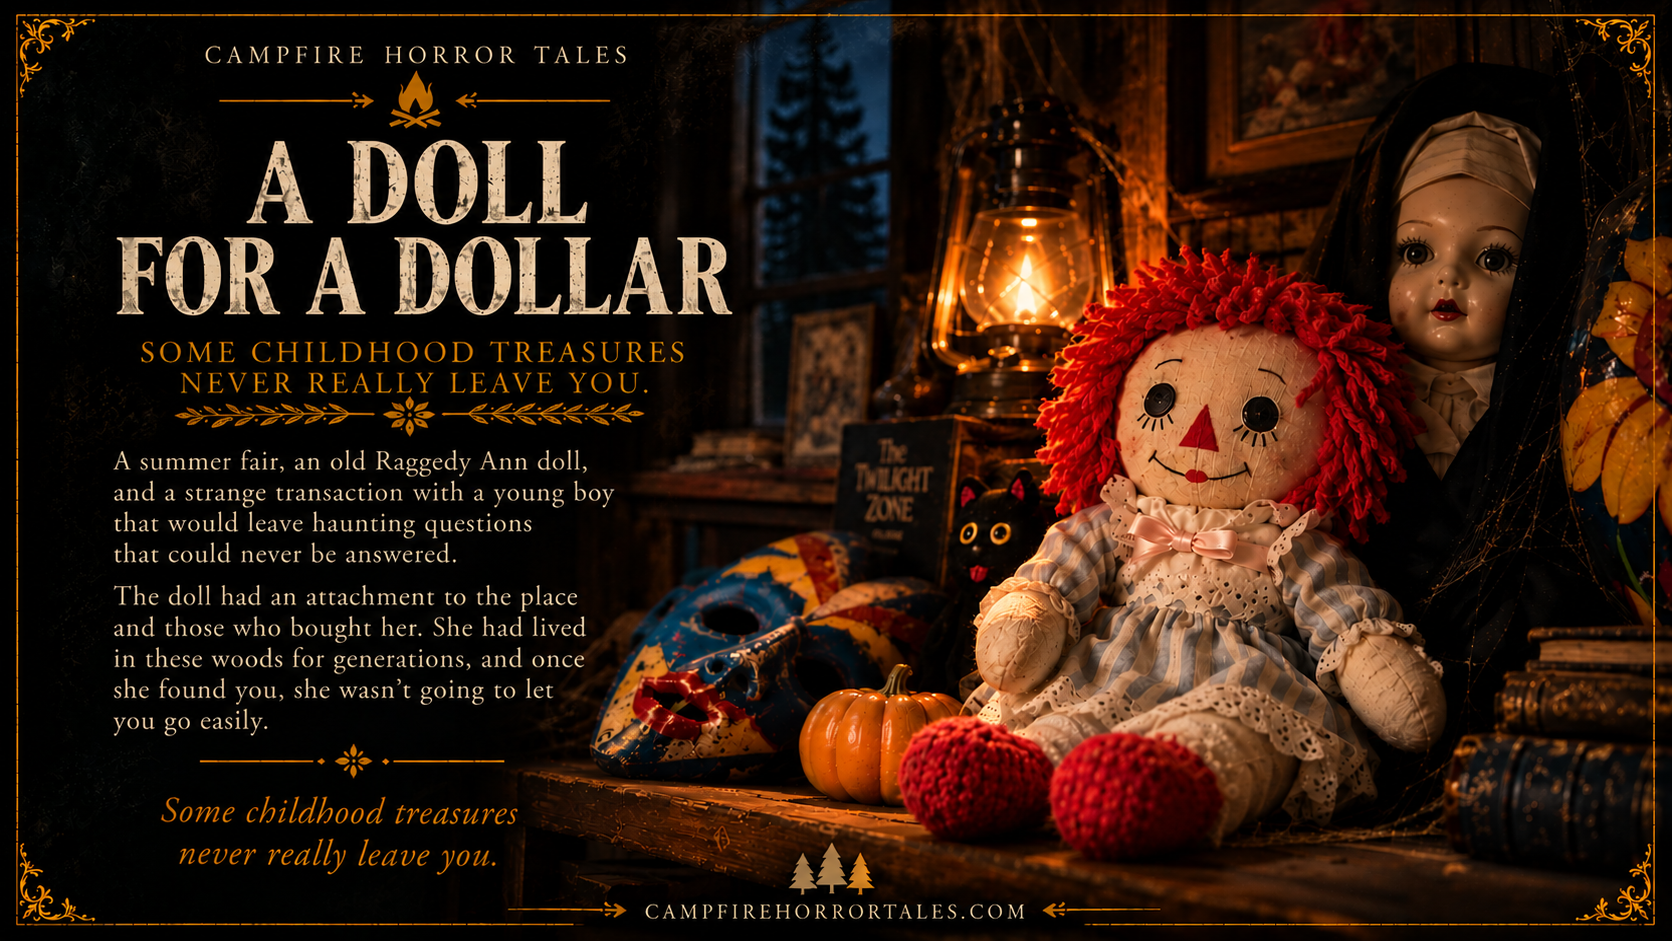
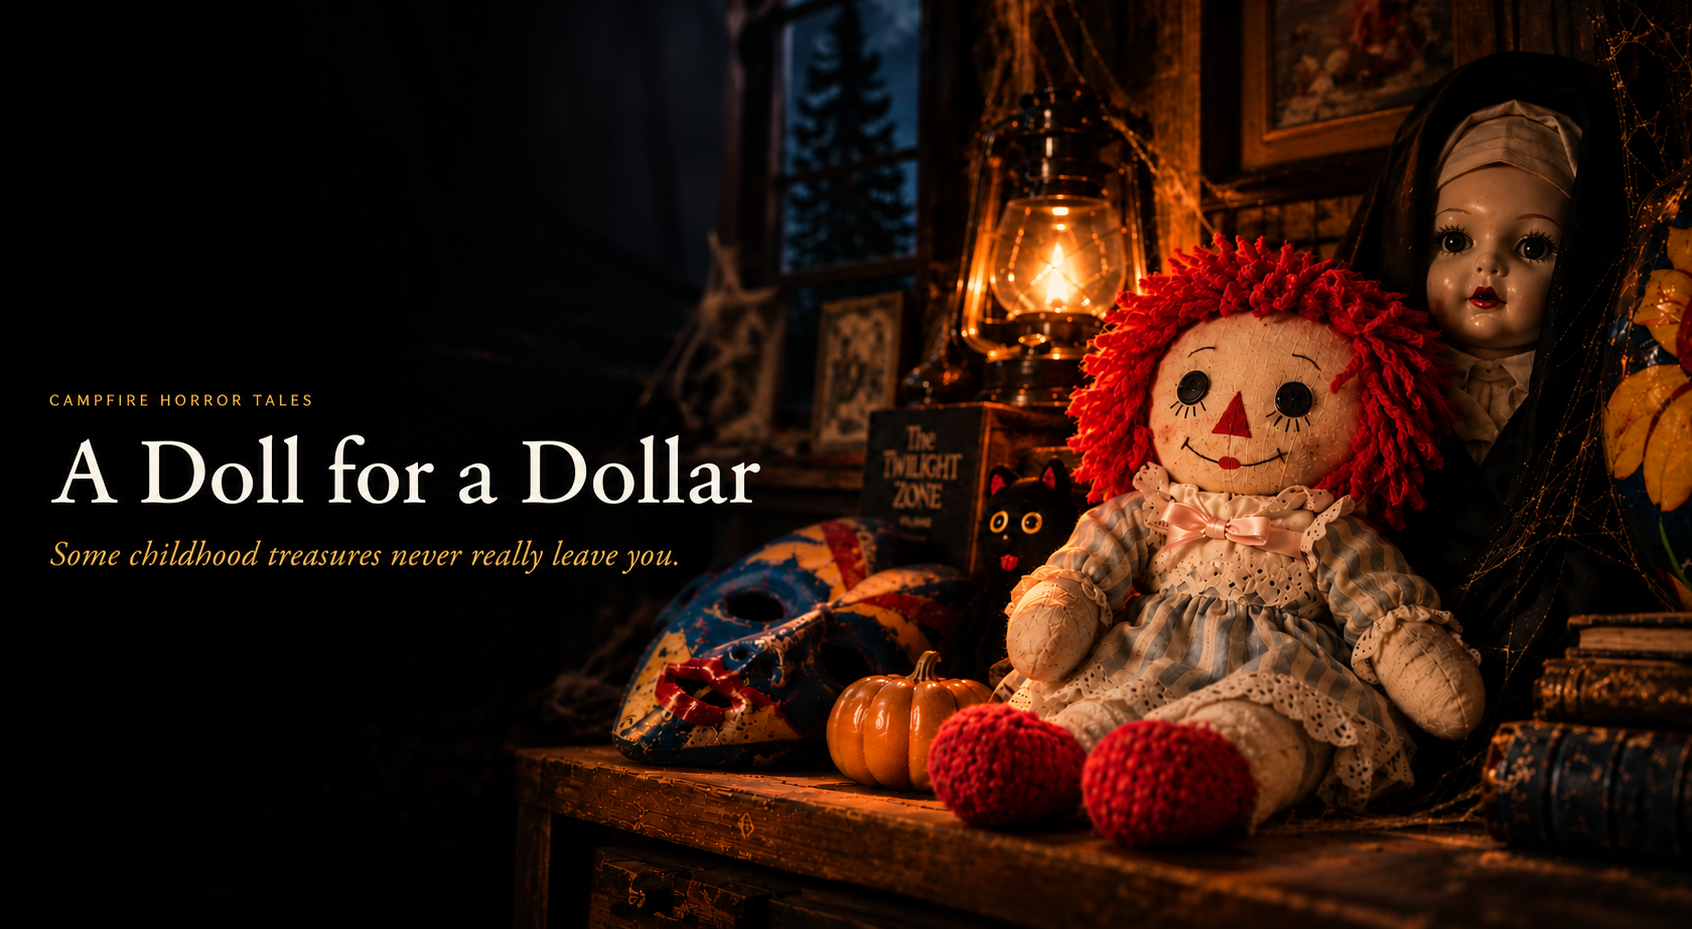
feat: Launch A Doll for a Dollar and update Behind the Fire reflections
- Change featured story on homepage from Old Woman in the Mirror to A Doll for a Dollar
- Update index.html with new story description and poster image
- Update Behind the Fire author reflections with Instagram content for all four stories:
  * A Doll for a Dollar: Story of the summer fair transaction
  * Fleshy Findlay: Mask inspiration from family cabin
  * The Boy in the Bog: Childhood bog exploration memories
  * The Old Woman in the Mirror: Family heirloom dresser story and grandmother's experiences
- Add French translation progress notice on fr/index.html

diff --git a/index.html b/index.html
@@ -408,30 +408,24 @@
         </audio>
               </section>
 
-      <section class="content-section" aria-labelledby="old-woman-title">
+      <section class="content-section" aria-labelledby="doll-title">
         <div class="section-heading">
           <p class="eyebrow">Featured Story</p>
-          <h2 id="old-woman-title">The Old Woman in the Mirror</h2>
+          <h2 id="doll-title">A Doll for a Dollar</h2>
         </div>
         <p class="section-intro">
-          An enchanted family heirloom... or a wicked curse.
-
-          A life destined for hardship.
-
-          A choice to be free...
-
-          ...or to be trapped in a different kind of hell forever.
+          A summer fair, an old Raggedy Ann doll, and a strange transaction with a young boy leave haunting questions that can never be answered.
         </p>
         <article class="story-card story-card--compact">
           <div class="story-card__media">
-            <img class="story-card__poster" src="assets/images/Story Posters/The old woman in the Mirror Poster.png" alt="Featured story poster for The Old Woman in the Mirror" />
+            <img class="story-card__poster" src="assets/stories/a-doll-for-a-dollar/images/A Doll For A Dollar POSTER.png" alt="Featured story poster for A Doll for a Dollar" />
           </div>
           <div class="story-card__body">
-            <h2>The Old Woman in the Mirror</h2>
+            <h2>A Doll for a Dollar</h2>
             <p>
-              The newest story in the Campfire Horror Tales collection.             </p>
+              An original Campfire Horror Tale.             </p>
             <ul class="story-card__links">
-              <li><a class="button" href="the-old-woman-in-the-mirror.html">Read Story</a></li>
+              <li><a class="button" href="a-doll-for-a-dollar.html">Read Story</a></li>
             </ul>
           </div>
         </article>

diff --git a/a-doll-for-a-dollar.html b/a-doll-for-a-dollar.html
@@ -19,13 +19,7 @@
       </div>
     </header>
     <main id="main-content">
-      <section class="story-hero" aria-labelledby="story-title">
-        <div class="story-hero__content">
-          <p class="eyebrow">Campfire Horror Tales</p>
-          <h1 id="story-title">A Doll for a Dollar</h1>
-          <p class="story-hero__tagline">Some childhood treasures never really leave you.</p>
-          <a class="story-hero__behind" href="behind-the-fire-a-doll-for-a-dollar.html">Behind the Fire</a>
-        </div>
+      <section class="story-hero story-hero--poster" aria-label="A Doll for a Dollar">
         <div class="story-hero__art" aria-hidden="true"><img src="assets/stories/a-doll-for-a-dollar/images/poster.png" alt="" /></div>
       </section>
       <section class="story-read story-read--full" aria-labelledby="story-title-read">
@@ -34,6 +28,7 @@
           <h1 id="story-title-read">A Doll for a Dollar</h1>
           <ul class="story-meta-list"><li><strong>Setting:</strong> Saint-Clair-des-Bois, Québec</li></ul>
           <article class="story-manuscript" id="story-manuscript" data-story-source="assets/stories/a-doll-for-a-dollar/manuscript.md"></article>
+          <section class="story-reflection" aria-labelledby="doll-reflection-title"><p class="eyebrow">Behind the Fire</p><h2 id="doll-reflection-title">The writer's reflection</h2><p>Discover the real memories, objects, and images that sparked this original work of fiction.</p><a class="button button--ghost" href="behind-the-fire-a-doll-for-a-dollar.html">Read the reflection</a></section>
           <div class="story-end"><a class="text-link" href="stories.html">← Back to Stories</a></div>
         </div>
       </section>

diff --git a/the-old-woman-in-the-mirror.html b/the-old-woman-in-the-mirror.html
@@ -49,7 +49,6 @@
           <div class="story-hero__actions" aria-label="Story actions">
             <!-- Intentionally left minimal for reading experience -->
           </div>
-          <a class="story-hero__behind" href="behind-the-fire-the-old-woman-in-the-mirror.html">Behind the Fire</a>
         </div>
         <div class="story-hero__art" aria-hidden="true">
           <img src="assets/images/The Girl in the Mirror.png" alt="Poster artwork for The Old Woman in the Mirror" />
@@ -67,6 +66,13 @@
           <!-- PDF/Print controls removed for public release (will be reintroduced in v3.0) -->
 
           <article class="story-manuscript" id="story-manuscript" data-story-source="assets/stories/the-old-woman-in-the-mirror/manuscript.md"></article>
+
+          <section class="story-reflection" aria-labelledby="mirror-reflection-title">
+            <p class="eyebrow">Behind the Fire</p>
+            <h2 id="mirror-reflection-title">The writer's reflection</h2>
+            <p>Discover the real memories, objects, and images that sparked this original work of fiction.</p>
+            <a class="button button--ghost" href="behind-the-fire-the-old-woman-in-the-mirror.html">Read the reflection</a>
+          </section>
 
           <div class="story-end">
             <a class="text-link" href="stories.html">← Back to Stories</a>

diff --git a/the-boy-in-the-bog.html b/the-boy-in-the-bog.html
@@ -46,7 +46,6 @@
           <div class="story-hero__actions" aria-label="Story actions">
             <!-- Minimal hero actions for reading experience -->
           </div>
-          <a class="story-hero__behind" href="behind-the-fire-the-boy-in-the-bog.html">Behind the Fire</a>
         </div>
         <div class="story-hero__art" aria-hidden="true">
           <img src="assets/images/The Bog.png" alt="Background artwork for The Boy in the Bog" style="object-position: center center;" />
@@ -63,6 +62,13 @@
           <!-- PDF/Print controls removed for public release (will be reintroduced in v3.0) -->
 
           <article class="story-manuscript" id="story-manuscript" data-story-source="assets/stories/the-boy-in-the-bog-draft-02.md"></article>
+
+          <section class="story-reflection" aria-labelledby="bog-reflection-title">
+            <p class="eyebrow">Behind the Fire</p>
+            <h2 id="bog-reflection-title">The writer's reflection</h2>
+            <p>Discover the real memories, objects, and images that sparked this original work of fiction.</p>
+            <a class="button button--ghost" href="behind-the-fire-the-boy-in-the-bog.html">Read the reflection</a>
+          </section>
 
           <div class="story-end">
             <a class="text-link" href="stories.html">← Back to Stories</a>

diff --git a/fleshy-findlay.html b/fleshy-findlay.html
@@ -31,7 +31,6 @@
           <div class="story-hero__actions" aria-label="Story actions">
             <!-- Minimal hero actions for reading experience -->
           </div>
-          <a class="story-hero__behind" href="behind-the-fire-fleshy-findlay.html">Behind the Fire</a>
         </div>
         <div class="story-hero__art" aria-hidden="true">
           <img src="assets/images/Findlays Face.png" alt="Background artwork for Fleshy Findlay" style="object-position: center center;" />
@@ -47,6 +46,13 @@
           <!-- PDF/Print controls removed for public release (will be reintroduced in v3.0) -->
 
           <article class="story-manuscript" id="story-manuscript" data-story-source="assets/stories/fleshy-findlay.md"></article>
+
+          <section class="story-reflection" aria-labelledby="fleshy-reflection-title">
+            <p class="eyebrow">Behind the Fire</p>
+            <h2 id="fleshy-reflection-title">The writer's reflection</h2>
+            <p>Discover the real memories, objects, and images that sparked this original work of fiction.</p>
+            <a class="button button--ghost" href="behind-the-fire-fleshy-findlay.html">Read the reflection</a>
+          </section>
 
           <div class="story-end">
             <a class="text-link" href="stories.html">← Back to Stories</a>

diff --git a/fr/index.html b/fr/index.html
@@ -30,6 +30,12 @@
           <a class="button" href="stories.html">Découvrir les récits</a>
         </div>
       </section>
+
+      <section class="content-section" style="text-align: center; padding: 4rem 2rem; background: rgba(8, 10, 12, 0.5);">
+        <p style="color: #d9d1c5; font-family: 'Cormorant Garamond', serif; font-size: 1.2rem; max-width: 600px; margin: 0 auto; line-height: 1.6;">
+          Nous travaillons fort pour traduire l'ensemble de nos histoires et contenus pour notre prochaine publication. Merci de votre patience!
+        </p>
+      </section>
     </main>
     <footer class="site-footer"><p>&copy; Dawn Hill. Récits originaux, folklore sombre et histoires au-delà du feu.</p></footer>
   </body>

diff --git a/stories.html b/stories.html
@@ -52,7 +52,7 @@
 
         <article class="story-card story-card--compact" aria-labelledby="doll-title">
           <div class="story-card__media">
-            <img class="story-card__poster" src="assets/stories/a-doll-for-a-dollar/images/poster.png" alt="Poster artwork for A Doll for a Dollar" />
+            <img class="story-card__poster" src="assets/stories/a-doll-for-a-dollar/images/A Doll For A Dollar POSTER.png" alt="Poster artwork for A Doll for a Dollar" />
           </div>
           <div class="story-card__body">
             <h2 id="doll-title">A Doll for a Dollar</h2>

diff --git a/styles/styles.css b/styles/styles.css
@@ -662,6 +662,24 @@ main {
 
 .story-end { margin-top: 2.25rem; }
 
+.story-reflection {
+  margin-top: 3rem;
+  padding: 1.75rem;
+  border: 1px solid rgba(242, 179, 93, 0.2);
+  border-radius: var(--radius);
+  background: rgba(255, 255, 255, 0.035);
+}
+.story-reflection h2 {
+  margin: 0 0 0.6rem;
+  font-family: 'Cormorant Garamond', serif;
+  font-size: 1.8rem;
+}
+.story-reflection p:not(.eyebrow) {
+  margin: 0;
+  color: #ddd7cf;
+}
+.story-reflection .button { margin-top: 1.25rem; }
+
 .inspiration-scrapbook {
   max-width: 540px;
   margin: 2.75rem 0 0;

diff --git a/assets/behind-the-fire/the-old-woman-in-the-mirror.md b/assets/behind-the-fire/the-old-woman-in-the-mirror.md
@@ -6,27 +6,21 @@ status: outline
 language: en
 ---
 
-## The Inspiration
+## An enchanted family heirloom... or a wicked curse.
 
-This entry is being prepared. Add the real-world inspiration for the story here.
+A life destined for hardship.
+A choice to be free...
+or perhaps to be trapped in a different kind of hell forever.
 
-## The Photograph
+## This is the actual dresser and mirror that once belonged to my great grandmother.
 
-Add details of any photograph, object, or visual reference that inspired the atmosphere. Include credit and permission information where needed.
+My father spent hours in the garage, stripping away layer after layer of old paint. He removed the old nails, and transforming it into the beautiful piece it is today.
 
-## The Family Story
+When I was little, my grandmother would tell me how she'd wake in the middle of the night to see faces—old faces—smiling at her from the mirror.
 
-Add only family history or memories Andrea wishes to share publicly. Do not imply that the fictional events in the story happened.
+## The story also draws from the harsh realities of early German customs in La Minerve
 
-## From Memory to Fiction
+Long winters, many babies, hard work, and a life left little room for anything but survival.
 
-Describe the creative choices that transformed inspiration into an original Campfire Horror Tale.
-
-## Why the Mirror?
-
-Add the reflection on why the mirror became the story's central object.
-
-## What Is Real and What Is Fiction?
-
-State clearly which inspirations are personal, historical, or visual, and that the characters, plot, and supernatural events are original fiction.
+Some reflections remain with you.
 

diff --git a/assets/behind-the-fire/a-doll-for-a-dollar.md b/assets/behind-the-fire/a-doll-for-a-dollar.md
@@ -6,14 +6,18 @@ status: pending-author-review
 language: en
 ---
 
-## The Real Spark
+## Every story has a spark. Here's the one that started this tale.
 
-This entry is reserved for an author-reviewed reflection on a Québec village fair, a little boy selling homemade tin-can telephones, and an old Raggedy Ann doll marked with a handwritten one-dollar price.
+At a summer fair in Québec, I came across a little boy selling homemade tin-can telephones, and an old Raggedy Ann doll with a handwritten sign. $1.
 
-## Materials for the Reflection
+I paid with a $5 bill. He counted out all of his change into my hand, and only later did I realize I had taken every last coin he had.
 
-The approved source notes include paying with a five-dollar bill, the boy counting out the change, returning to look for him and never finding him or the tin-can telephones again in later years. They also include a real Raggedy Ann photograph and a separately purchased old nun doll.
+I went back to find him, but he was gone. I never saw him again.
 
-## From Memory to Fiction
+The doll came home with me. Friends and family noticed right away that she had a strange, unsettling presence. But I couldn't get rid of it. It felt as though the boy had passed her to me, and she was mine to keep.
 
-These are real memories and objects that inspired the story. The characters, plot, and supernatural events in *A Doll for a Dollar* are original fiction. No additional account is published here until Andrea has reviewed the final prose.
+She had a connection to this place.
+She belonged in these woods...
+until she chose her next transaction.
+
+Some childhood treasures never really leave you.

diff --git a/assets/behind-the-fire/fleshy-findlay.md b/assets/behind-the-fire/fleshy-findlay.md
@@ -6,18 +6,16 @@ status: published
 language: en
 ---
 
-## Every Story Begins Somewhere
+## One of the goals of the Behind the Fire series is to share where Campfire Horror Tales truly begin.
 
-For *Fleshy Findlay*, it began with a mask discovered in a small three-season cabin in Québec's Laurentians shortly after the cabin was purchased in August 2018. No one knew who had made it or why it had been left behind.
+Every story starts with a real photograph, a memory capturing some "dark", a thing that starts the process and evolves into something deeper, darker, and well yes, creepy.
 
-## The Spark
+This mask is still hanging in our cabin today.
 
-The hand-painted mask remains mounted in the cabin. Its unanswered history became the first spark for a story that Andrea told around campfires with her nieces and nephews, then returned to and reshaped over the years.
-
-## From Object to Fiction
-
-The mask and the memory of finding it are real inspiration. The characters, plot, and supernatural events in *Fleshy Findlay* are original fiction.
+It remains one of my favourite reminders that the best stories often begin with a curious thought...and a wild imagination.
 
 ## Original Photograph
 
-The related photograph was taken at the family cabin in the Laurentians and is part of the early visual history of Campfire Horror Tales.
+The inset photograph featured with this article is the original image taken at our family cabin in the Laurentians.
+
+It remains one of the earliest pieces of inspiration behind Campfire Horror Tales.

diff --git a/assets/behind-the-fire/the-boy-in-the-bog.md b/assets/behind-the-fire/the-boy-in-the-bog.md
@@ -6,14 +6,14 @@ status: pending-author-review
 language: en
 ---
 
-## The Seed
+## Every story has a spark. Here's the one that started this tale.
 
-This entry gathers the approved notes behind *The Boy in the Bog*: childhood summers at the cabin, the bog behind the beach, catching frogs, and the memory of a boy who tormented frogs before the children returned them to the water.
+When I was a kid, my siblings and I would spend our summer days at the cabin, exploring the bog behind the beach. We'd catch frogs—big, warty bullfrogs—hold them gently, admire them, and then let them go back into the water.
 
-## A Photograph from the Garden
+There was a boy who would come down to the beach. He'd catch the frogs too—but he didn't care for them. He'd bury them alive, chase them around, torment them.
 
-A real frog photograph from a garden is part of the story's visual inspiration.
+It made us angry. It made us sad.
+We'd wait for him to leave, then carefully dig them up and return them to the water where they belonged.
 
-## From Memory to Fiction
-
-These memories and the photograph are real inspiration. The characters, plot, and supernatural events in *The Boy in the Bog* are original fiction. An author-reviewed reflection will expand this entry without changing that distinction.
+He became a topic of many heated conversations at the cabin.
+That memory...along with this photo from my own backyard garden...planted the seed for The Boy in the Bog.
